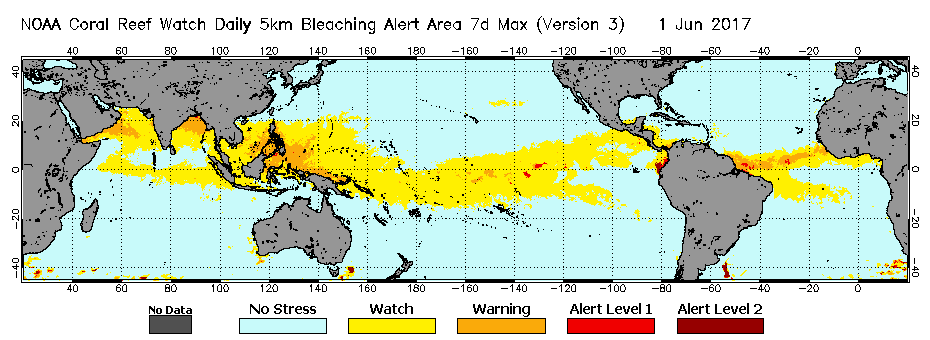
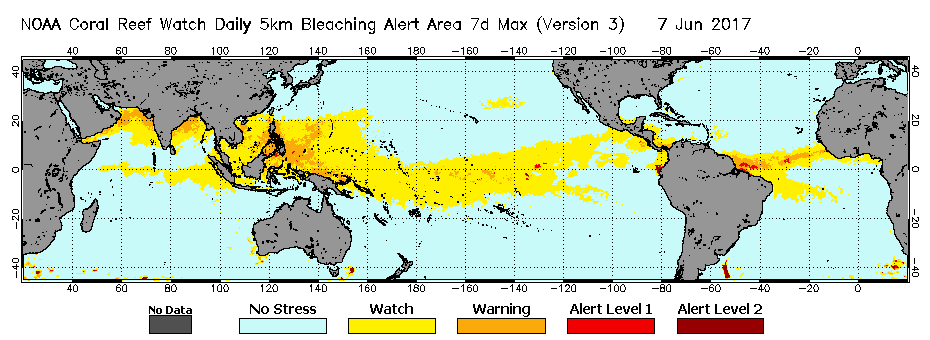
fixed a lot, but mainly added an accurate date time thing to the graph, and FIXED A COLOR THAT WAS OFF SO IT WAS READING AS 0

diff --git a/src/realtime.py b/src/realtime.py
@@ -18,7 +18,7 @@ import urllib
 
 # count vars, global 
 no_stress_color_range = '#ffffff'
-watch_color_range = '#c8ff32'
+watch_color_range = '#fff000'
 warning_color_range = "#faaa0a"
 alert_1_color_range = "#f00000"
 alert_2_color_range = "#960000"
@@ -69,7 +69,7 @@ def count_pixels(im):
 	color = get_pixel_color(im, 225, 95)
 	print convert_RGB_HEX(color)
 	for l in range(length): 
-		for w in range(240,241): # this range is ONLY for testing purposes, will be replaced with "width"
+		for w in range(181,182): # this range is ONLY for testing purposes, will be replaced with "width"
 			color = get_pixel_color(im, l, w)
 			color = convert_RGB_HEX(color)
 			if color == no_stress_color_range:
@@ -102,7 +102,7 @@ def count_pixels(im):
 				continue
 	return pixels
 
-def get_percentages(im):
+def get_percentages(im, num):
 	global no_stress_color_range, watch_color_range, warning_color_range, alert_1_color_range, alert_2_color_range, no_stress, watch_color, warning_color, alert_1_color, alert_2_color, black_color_range, black, land_range, land, database_file, bleaching_database_view
 	no_stress, watch_color, warning_color, alert_1_color, alert_2_color = 0,0,0,0,0
 	pixels  = float(count_pixels(im))
@@ -112,6 +112,8 @@ def get_percentages(im):
 	st = datetime.datetime.fromtimestamp(ts).strftime('%Y-%m-%d %H:%M:%S')
 	program_print("GETTING PERCENTAGES")
 	program_print("GETTING DATE TIME")
+	st = get_date(datetime.date.today(), 19+(27-int(num)))
+	print st, num
 	program_print(ts)
 	database_input_list = [st, no_stress/pixels, watch_color/pixels, warning_color/pixels, alert_1_color/pixels, alert_2_color/pixels]
 	for element in database_input_list:
@@ -161,11 +163,11 @@ def generate_graphs(database_file):
 	print len(x_values), len(watch_data_points), len(warning_data_points), len(alert_1_data_points), len(alert_2_data_points)
 	#ax.set_xticks(x_values_num)
 	#ax.set_xticklabels(x_values_num, x_values)
-	ax.plot(x_values_num, watch_data_points, color="blue", label = 'WATCH')
-	ax.plot(x_values_num, warning_data_points, color="yellow", label = 'WARNING')
-	ax.plot(x_values_num, alert_1_data_points, color="orange", label = 'ALERT 1')
-	ax.plot(x_values_num, alert_2_data_points, color="red", label = 'ALERT 2')
-	plt.xlabel('Days since the first measurement in the dataset {0}'.format(str(dataset[t][0])))
+	ax.plot(x_values_num, watch_data_points, color="yellow", label = 'WATCH')
+	ax.plot(x_values_num, warning_data_points, color="orange", label = 'WARNING')
+	ax.plot(x_values_num, alert_1_data_points, color="red", label = 'ALERT 1')
+	ax.plot(x_values_num, alert_2_data_points, color="maroon", label = 'ALERT 2')
+	plt.xlabel('Days since the first measurement in the dataset {0}'.format(str(dataset[0][0])))
 	plt.ylabel('Percentage of reef at various alert levels')
 	legend = ax.legend(loc='upper right', shadow=True)
 	for label in legend.get_texts():
@@ -204,6 +206,7 @@ def startup_function():
 		info_tmp = info.read()
 		program_ouput.insert(INSERT, info_tmp)	
 	
+	download_current_image("https://coralreefwatch.noaa.gov/satellite/bleaching5km/images_current/cur_b05kmnn_max_r07d_baa_45ns.gif", "C:\Users\Joseph Farah\Documents\python\coral\db\current_frame.png")
 	im = PIL.Image.open("C:\Users\Joseph Farah\Documents\python\coral\db\current_frame.png")#.convert2byte()
 	MAP = ImageTk.PhotoImage(im)
 	program_ouput.insert(INSERT, 'MAP CONVERTED TO PNG\n')
@@ -222,6 +225,10 @@ def startup_function():
 
 def ping_noaa():
 	os.system("ping ")
+
+def get_date(start, delta):
+	newdate = start + datetime.timedelta(-delta)
+	return str(newdate)
 
 def program_print(message):
 	global program_ouput
@@ -268,7 +275,8 @@ def analyze_historical_images(folder_link):
 			program_print(file_path)
 			print file_path
 			imageObject = PIL.Image.open(file_path) #Can be many different formats.
-			get_percentages(imageObject)
+			tmp_num = file.strip('.png').strip('test')
+			get_percentages(imageObject, tmp_num)
 	program_print("HISTORICAL ANALYSIS COMPLETE")
 	program_print("PIXEL ANALYSIS SUCCESSFUL. GRAPH CAN BE DISPLAYED.")
 
@@ -307,4 +315,8 @@ main.config(menu=menubar)
 main.after(0,ram_save_intro)
 main.after(500, startup_function)
 main.iconbitmap(default='../coralicon.ico')
+# main.attributes('-fullscreen', True)
+# w, h = main.winfo_screenwidth(), main.winfo_screenheight()
+# main.geometry("%dx%d+0+0" % (w, h))
+main.state('zoomed')
 main.mainloop()
